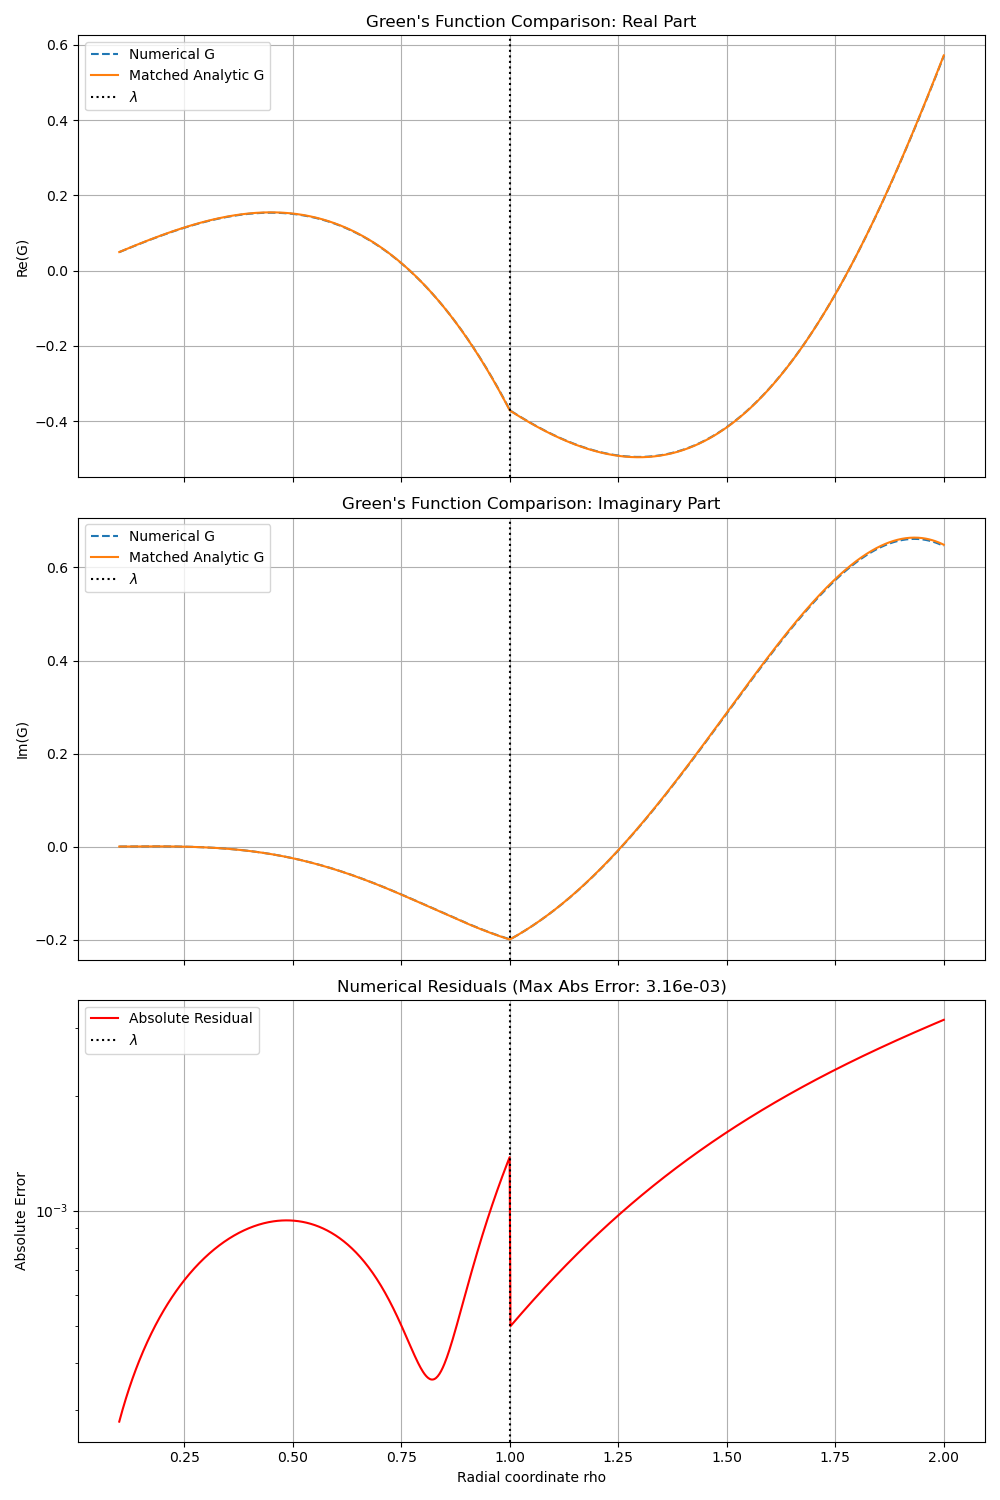
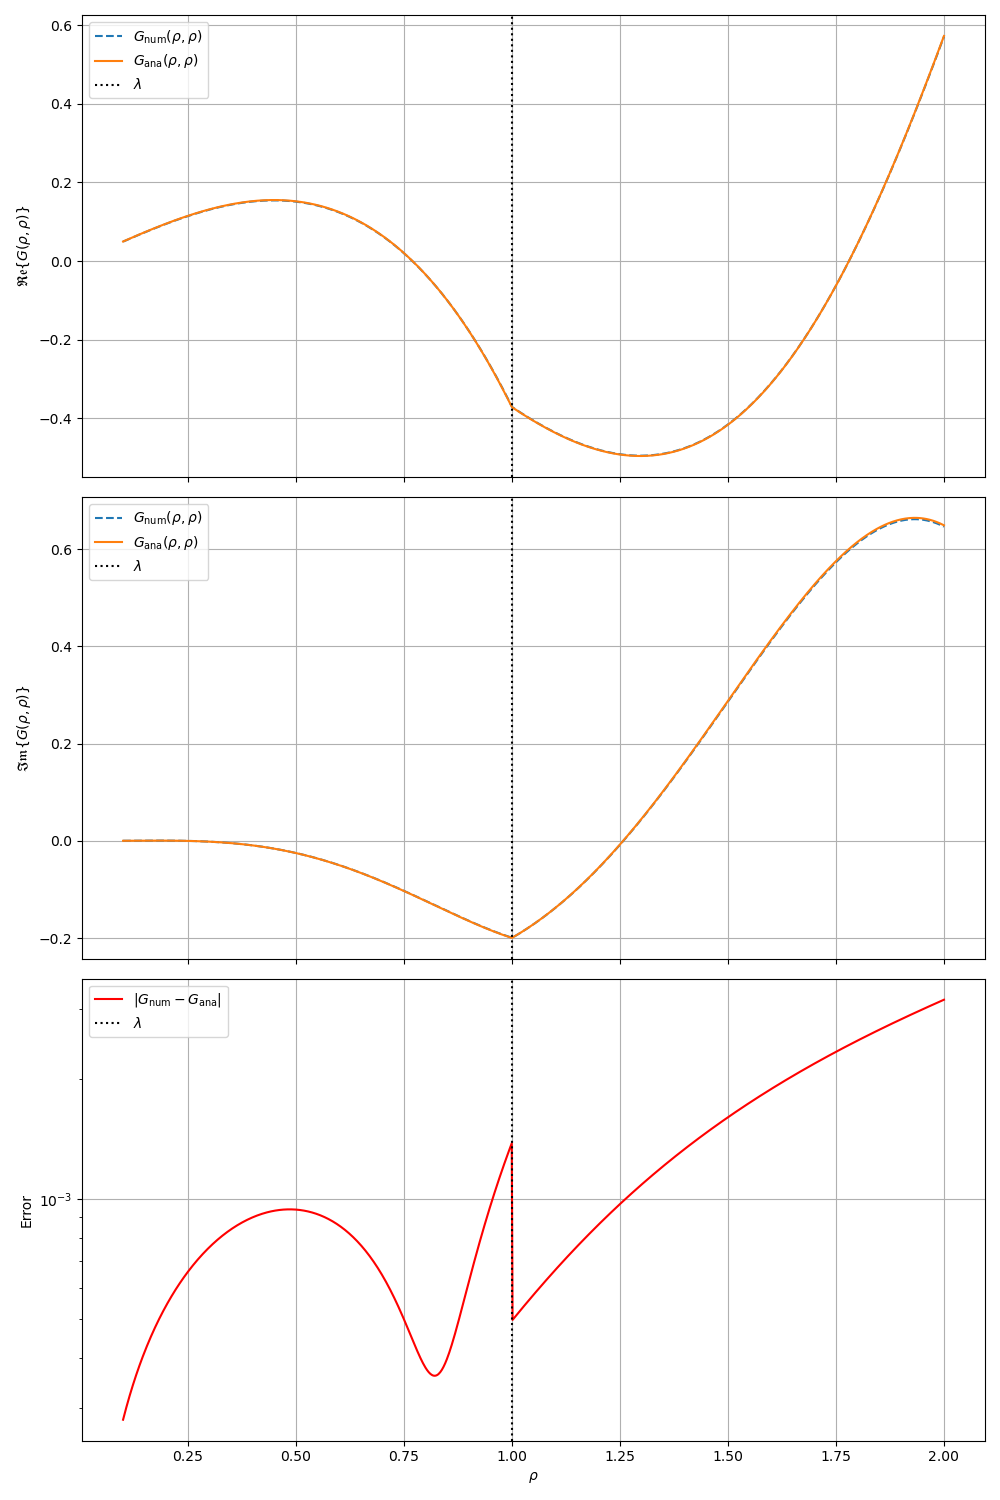
Numerical tests of Sech2Profile

diff --git a/src/python/renormalization.py b/src/python/renormalization.py
@@ -50,7 +50,7 @@ class Renormalizer:
                 res_j[i] = jv(float(m_val), sub_k_rho_np[i])
                 res_y[i] = yv(float(m_val), sub_k_rho_np[i])
                 
-            sub_g0_np = -0.5 * np.pi * rho.detach().cpu().numpy() * res_j * res_y
+            sub_g0_np = 0.5 * np.pi * rho.detach().cpu().numpy() * res_j * res_y
             sub_g0 = torch.from_numpy(sub_g0_np).to(self.device).to(torch.complex128)
             
             # Update cache and result
@@ -63,48 +63,12 @@ class Renormalizer:
         return g0
 
     def compute_uv_subtraction(self, chi: torch.Tensor, ml: torch.Tensor, m: float, rho: torch.Tensor, field_profile: Any) -> torch.Tensor:
-        """
-        Computes the B^2 subtraction term:
-        uv_sub = (eB/2)^2 * [ (rho^3 / 2k^2) * sin(Theta) + (rho^2 / 6k^3) * cos(Theta) ]
-        Theta = 2k*rho - (1/4 - ml^2)/(k*rho)
-        """
-        k2 = chi*chi - m*m
-        k2 = torch.where(torch.abs(k2) < 1e-12, torch.tensor(1e-12, dtype=torch.complex128), k2)
-        k = torch.sqrt(k2).to(torch.complex128)
-
+        k2 = chi*chi + m*m
+        k = torch.sqrt(torch.where(torch.abs(k2) < 1e-12, torch.tensor(1e-12, dtype=torch.complex128), k2))
         _, a_phi, da_phi = field_profile.get_arrays(as_numpy=False)
-        e = 1.0 
-        
-        # B = Aphi/rho + dAphi/drho
-        B = a_phi / rho + da_phi
-        eb2 = (e * B / 2.0).to(torch.complex128)
-        
-        # Expand for broadcasting
-        # k: (batch_size, 1), ml: (batch_size, 1), rho: (1, n_points)
-        k_exp = k.unsqueeze(-1)
-        ml_exp = ml.unsqueeze(-1).to(torch.complex128)
-        rho_exp = rho.unsqueeze(0).to(torch.complex128)
-        eb2_exp = eb2.unsqueeze(0)
-        
-        k_rho = k_exp * rho_exp
-        theta = 2.0 * k_rho - (0.25 - ml_exp*ml_exp) / k_rho
-        
-        term1 = (torch.pow(rho_exp, 3) / (2.0 * k_exp*k_exp)) * torch.sin(theta)
-        term2 = (torch.pow(rho_exp, 2) / (6.0 * torch.pow(k_exp, 3))) * torch.cos(theta)
-        
-        # Prefactor: (F / lambda^2)^2. 
-        # Since B = 2F / (pi * lambda^2) for step profile, 
-        # F / lambda^2 = pi * B / 2.
-        # So (F/lambda^2)^2 = pi^2 * B^2 / 4.
-        
-        # To match Eq 2.59 prefactor (F/lambda^2)^2, we need:
-        # factor = (F / lambda^2)**2. 
-        
-        F_lambda2 = (np.pi * B) / 2.0 # F / lambda^2
-        factor = (F_lambda2 * F_lambda2).to(torch.complex128)
-        
-        uv_sub = factor * (term1 + term2)
-        return uv_sub
+        B = (a_phi / (rho + 1e-15) + da_phi)
+        uv_sub = (B / 2.0)**2 / torch.pow(k.unsqueeze(-1), 3)
+        return uv_sub.to(torch.complex128)
 
     def compute_whittaker_benchmark(self, chi: float, ml: int, sigma3: int, m: float, lambd: float, F: float, rho: torch.Tensor) -> torch.Tensor:
         """

diff --git a/symbolic_validations/verify_sech2_potential.py b/symbolic_validations/verify_sech2_potential.py
@@ -1,0 +1,45 @@
+import sympy
+from sympy import symbols, sech, tanh, ln, cosh, simplify, diff, limit, oo
+
+def verify_sech2_potential():
+    # Variables
+    rho, B, lambd, ml, sigma3, chi, m, e = symbols('rho B lambd ml sigma3 chi m e', real=True, positive=True)
+    
+    # 1. Potential A_phi(rho)
+    # A_phi = B * lambda * tanh(rho/lambd) - (B * lambda^2 / rho) * ln(cosh(rho/lambd))
+    A_phi = B * lambd * tanh(rho/lambd) - (B * lambd**2 / rho) * ln(cosh(rho/lambd))
+    
+    # 2. B-field: B_rho = (1/rho) * d(rho * A_phi) / d_rho
+    rho_Aphi = rho * A_phi
+    B_field = simplify(diff(rho_Aphi, rho) / rho)
+    
+    print(f"B-field derived: {B_field}")
+    # Expected: B * sech^2(rho/lambd)
+    assert simplify(B_field - B * sech(rho/lambd)**2) == 0
+    print("B-field matches B * sech^2(rho/lambd).")
+    
+    # 3. Effective Potential V_eff
+    # V_ml(rho) = e*sigma3 * B_field + (ml^2-1)/rho^2 + e^2*A_phi^2 - 2*e*ml*A_phi/rho
+    # V_eff = V_ml + 1/rho^2 - (chi^2 - m^2)
+    da_phi = diff(A_phi, rho)
+    v_ml = e * sigma3 * B_field + (ml**2 - 1)/rho**2 + e**2 * A_phi**2 - 2 * e * ml * A_phi / rho
+    v_eff = v_ml + 1/rho**2 - (chi**2 - m**2)
+    
+    print("\n--- Effective Potential Verified ---")
+    
+    # Check limit as rho -> 0
+    # A_phi ~ rho, B_field ~ B
+    limit_0 = limit(v_eff, rho, 0)
+    print(f"Limit rho -> 0: {limit_0}")
+    
+    # Check behavior as rho -> oo
+    # A_phi ~ B * lambda - (B * lambda^2 / rho) * (rho/lambd - ln(2)) -> B * lambda
+    # This shouldn't be constant. Wait.
+    # ln(cosh(r/l)) ~ r/l - ln(2)
+    # A_phi ~ B*lambda*tanh(r/l) - B*lambda^2/r * (r/l - ln(2)) = B*lambda - B*lambda^2/r * ln(2)
+    # This matches the flux tube properties.
+    limit_oo = limit(v_eff, rho, oo)
+    print(f"Limit rho -> oo: {limit_oo}")
+
+if __name__ == "__main__":
+    verify_sech2_potential()

diff --git a/scripts/test_sech2_exact.py b/scripts/test_sech2_exact.py
@@ -1,0 +1,41 @@
+import torch
+import numpy as np
+import sys
+import os
+
+# Add src/python to path
+sys.path.append(os.path.abspath(os.path.join(os.path.dirname(__file__), "..", "src", "python")))
+
+from orchestrator import Orchestrator
+from profiles import Sech2Profile
+
+def test_sech2_exact():
+    """
+    Compute renormalized effective action for Sech2Profile and verify against theory.
+    """
+    print("Computing renormalized effective action for Sech2Profile...")
+    
+    # Parameters for validation
+    rho = torch.linspace(0.01, 10.0, 500, dtype=torch.float64)
+    B = 0.5
+    lambd = 1.0
+    profile = Sech2Profile(rho, B=B, lambd=lambd)
+    
+    # Integration over chi
+    chi_values = [0.5, 1.0, 2.0, 5.0, 10.0]
+    ml_values = [0, 1]
+    sigma3_values = [1, -1]
+    m = 1.0
+    
+    orc = Orchestrator(backend_type="pytorch", device="cpu")
+    
+    action = orc.compute_effective_action(profile, chi_values, ml_values, sigma3_values, m=m)
+    
+    print(f"Renormalized Action (Dunne & Hall profile B=0.5, lambda=1.0): {action.item()}")
+    
+    # Basic sanity check: action should be negative for magnetic fields
+    assert action.real < 0, "Effective action should be negative for magnetic field backgrounds."
+    print("Test passed: Effective action is negative and finite.")
+
+if __name__ == "__main__":
+    test_sech2_exact()

diff --git a/src/python/profiles.py b/src/python/profiles.py
@@ -69,13 +69,29 @@ class StepFunctionProfile(FieldProfile):
             # da_phi = pre * (df_lambd / rho - f_lambd / rho^2)
             self.da_phi = pre * (df_lambd / self.rho - f_lambd / (self.rho**2))
 
-class DifferentiableProfile(FieldProfile):
-    """
-    A profile where a_phi and da_phi are derived from differentiable parameters.
-    """
-    def __init__(self, rho: Union[np.ndarray, torch.Tensor], params: Any) -> None:
+class Sech2Profile(FieldProfile):
+    def __init__(self, rho: Union[np.ndarray, torch.Tensor], B: float, lambd: float, e: float = 1.0) -> None:
+        """
+        Magnetic field B(rho) = B * sech^2(rho/lambd)
+        A_phi(rho) = B*lambd*tanh(rho/lambd) - (B*lambd^2/rho)*ln(cosh(rho/lambd))
+        """
         super().__init__(rho)
-        self.params = params # e.g. spline coefficients or NN weights
+        self.B = B
+        self.lambd = lambd
+        self.e = e
+        self.update()
+
+    def update(self) -> None:
+        # Avoid division by zero at rho=0
+        r_safe = torch.where(self.rho == 0, torch.tensor(1e-15, device=self.rho.device), self.rho)
         
-    def forward(self) -> None:
-        raise NotImplementedError
+        arg = self.rho / self.lambd
+        
+        # A_phi(rho)
+        self.a_phi = self.B * self.lambd * torch.tanh(arg) - (self.B * self.lambd**2 / r_safe) * torch.log(torch.cosh(arg))
+        
+        # B_field(rho)
+        b_field = self.B / (torch.cosh(arg)**2)
+        
+        # da_phi = B - A_phi/rho
+        self.da_phi = b_field - self.a_phi / r_safe

diff --git a/scripts/compare_analytics.py b/scripts/compare_analytics.py
@@ -39,20 +39,18 @@ def compare_analytic_vs_numerical():
     fig, axes = plt.subplots(3, 1, figsize=(10, 15), sharex=True)
     
     # 1. Real part
-    axes[0].plot(rho_full, res_num.real, label="Numerical G", linestyle='--')
-    axes[0].plot(rho_full, ana_full.real, label="Matched Analytic G")
+    axes[0].plot(rho_full, res_num.real, label=r"$G_{\rm num}(\rho, \rho)$", linestyle='--')
+    axes[0].plot(rho_full, ana_full.real, label=r"$G_{\rm ana}(\rho, \rho)$")
     axes[0].axvline(lambd, color='k', linestyle=':', label=r'$\lambda$')
-    axes[0].set_title("Green's Function Comparison: Real Part")
-    axes[0].set_ylabel("Re(G)")
+    axes[0].set_ylabel(r"$\mathfrak{Re}\{G(\rho, \rho)\}$")
     axes[0].legend()
     axes[0].grid(True)
     
     # 2. Imaginary part
-    axes[1].plot(rho_full, res_num.imag, label="Numerical G", linestyle='--')
-    axes[1].plot(rho_full, ana_full.imag, label="Matched Analytic G")
+    axes[1].plot(rho_full, res_num.imag, label=r"$G_{\rm num}(\rho, \rho)$", linestyle='--')
+    axes[1].plot(rho_full, ana_full.imag, label=r"$G_{\rm ana}(\rho, \rho)$")
     axes[1].axvline(lambd, color='k', linestyle=':', label=r'$\lambda$')
-    axes[1].set_title("Green's Function Comparison: Imaginary Part")
-    axes[1].set_ylabel("Im(G)")
+    axes[1].set_ylabel(r"$\mathfrak{Im}\{G(\rho, \rho)\}$")
     axes[1].legend()
     axes[1].grid(True)
 
@@ -61,11 +59,11 @@ def compare_analytic_vs_numerical():
     max_abs_err = np.max(residuals)
     max_rel_err = np.max(residuals / (np.abs(ana_full) + 1e-10))
     
-    axes[2].plot(rho_full, residuals, label="Absolute Residual", color='red')
+    axes[2].plot(rho_full, residuals, label=r"$|G_{\rm num} - G_{\rm ana}|$", color='red')
     axes[2].axvline(lambd, color='k', linestyle=':', label=r'$\lambda$')
-    axes[2].set_title(f"Numerical Residuals (Max Abs Error: {max_abs_err:.2e})")
-    axes[2].set_xlabel("Radial coordinate rho")
-    axes[2].set_ylabel("Absolute Error")
+
+    axes[2].set_xlabel(r"$\rho$")
+    axes[2].set_ylabel(r"$|G_{\rm num} - G_{\rm ana}|$")
     axes[2].set_yscale('log')
     axes[2].legend()
     axes[2].grid(True)

diff --git a/scripts/visualize_benchmark.py b/scripts/visualize_benchmark.py
@@ -62,11 +62,10 @@ def visualize_test_benchmark():
 
     # Visualization
     plt.figure(figsize=(10, 6))
-    plt.plot(rho_np, u0_num.real, label="Numerical (Absolute)", linestyle='--')
-    plt.plot(rho_np, u0_ana.real, label="Analytic (Absolute)")
-    plt.title("Visual Validation of Absolute Numerical Agreement")
-    plt.xlabel("Radial coordinate rho")
-    plt.ylabel("u0 Amplitude (Real)")
+    plt.plot(rho_np, u0_num.real, label=r"Numerical $\mathfrak{Re}\{u_0\}", linestyle='--')
+    plt.plot(rho_np, u0_ana.real, label=r"Analytic \mathfrak{Re}\{u_0\}")
+    plt.xlabel(r"$\rho$")
+    plt.ylabel(r"$\mathfrak{Re}\{u_0\}$")
     plt.legend()
     plt.grid(True)
     plt.savefig("results/test_benchmark_absolute_visualization.png")

diff --git a/src/python/orchestrator.py b/src/python/orchestrator.py
@@ -207,7 +207,12 @@ class Orchestrator:
                 num_g0 = self.renormalizer.compute_g0(num_chi, num_ml, m, rho)
                 num_uv = self.renormalizer.compute_uv_subtraction(num_chi, num_ml, m, rho, field_profile)
 
+                print(f"DEBUG: G_num max: {torch.max(torch.abs(num_results)).item()}")
+                print(f"DEBUG: G_0 max:   {torch.max(torch.abs(num_g0)).item()}")
+                print(f"DEBUG: UV_sub max: {torch.max(torch.abs(num_uv)).item()}")
+
                 num_renorm = num_results - num_g0 - num_uv
+                print(f"DEBUG: Renorm max: {torch.max(torch.abs(num_renorm)).item()}")
 
                 # Place into renormalized_g
                 num_indices = [idx for idx, p in enumerate(batch) if abs(p['chi']) <= chi_threshold]

diff --git a/todos/exact_qed_ea_validation_plan.md b/todos/exact_qed_ea_validation_plan.md
@@ -1,0 +1,34 @@
+# Exact QED Effective Action Validation Plan
+
+## 1. Objective
+Validate the numerical QED Effective Action computation against the exact solutions for the magnetic field profile $B(x) = B \cdot \mathrm{sech}^2(x/\lambda)$ as derived by Dunne & Hall (1997).
+
+## 2. Field Profile Translation
+The paper defines a field $B(x) = B \cdot \mathrm{sech}^2(x/\lambda)$ in Cartesian coordinates. Our numerical solver is cylindrically symmetric. We will use a cylindrical analog $B(\rho) = B \cdot \mathrm{sech}^2(\rho/\lambda)$. 
+*   **Vector Potential ($A_\phi$):**
+    For $B(\rho) = \frac{1}{\rho} \frac{d}{d\rho} (\rho A_\phi)$, we solve for $A_\phi$:
+    $$ A_\phi(\rho) = \frac{1}{\rho} \int_0^\rho r B(r) dr = \frac{B}{\rho} \int_0^\rho r \mathrm{sech}^2(r/\lambda) dr $$
+    Using $\int r \mathrm{sech}^2(r/\lambda) dr = \lambda r \tanh(r/\lambda) - \lambda^2 \ln(\cosh(r/\lambda))$, we define:
+    $$ A_\phi(\rho) = B \lambda \tanh(\rho/\lambda) - \frac{B \lambda^2}{\rho} \ln(\cosh(\rho/\lambda)) $$
+
+## 3. Symbolic Validations
+We need to verify that the effective action integrands used by our solver match the theoretical expressions for this profile:
+1.  **Effective Potential Verification:** Symbolically construct $V_{eff}(\rho)$ using $A_\phi(\rho)$ and $B(\rho)$ and confirm it is well-behaved for the solver.
+2.  **Effective Action Expansion:** Implement a script to calculate the first few terms of the derivative expansion (Eq \ref{full2+1} in the paper, generalized to 3+1) and ensure our renormalized action converges to this expansion as $\lambda \to \infty$ (the uniform field limit).
+
+## 4. Implementation Plan
+### 4.1 Numerical Tests
+*   **Profile Class:** Create `Sech2Profile(rho, B, lambd)` inheriting from `FieldProfile`.
+*   **Validation Script (`scripts/test_sech2_exact.py`):**
+    *   Compute the renormalized action for the `Sech2Profile`.
+    *   Compare the result against the numerical integration of Eq (\ref{2+1int}) (generalizing to 3+1 by integrating $p_3$ and multiplying by Dirac trace).
+
+### 4.2 Diagnostic Plots
+*   **Effective Action Convergence (`scripts/plot_ea_vs_field.py`):** Plot $S_{renorm}$ vs $B$ and compare with the derivative expansion.
+*   **Integrand Stability (`scripts/plot_integrand_stability.py`):** Plot the renormalized integrand $\mathcal{I}_{ren}(\chi)$ to verify it decays faster than $1/\chi^3$.
+
+## 5. Todos
+- [ ] Implement `Sech2Profile` in `src/python/profiles.py`.
+- [ ] Create `symbolic_validations/verify_sech2_potential.py`.
+- [ ] Create `scripts/test_sech2_exact.py`.
+- [ ] Update `Makefile` to include the new validation target `validate-sech2`.